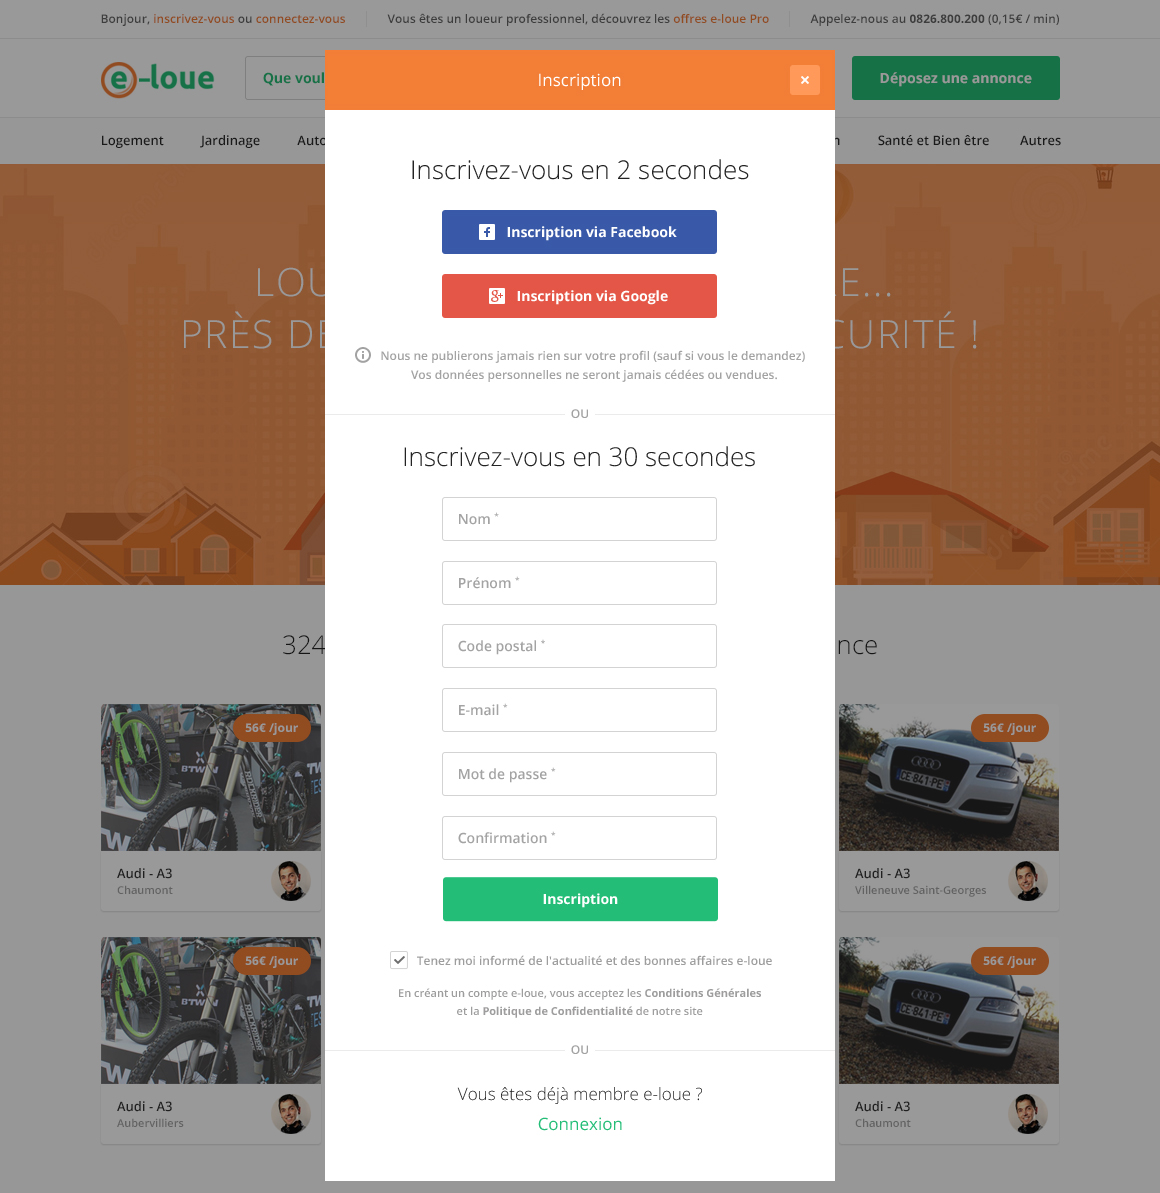
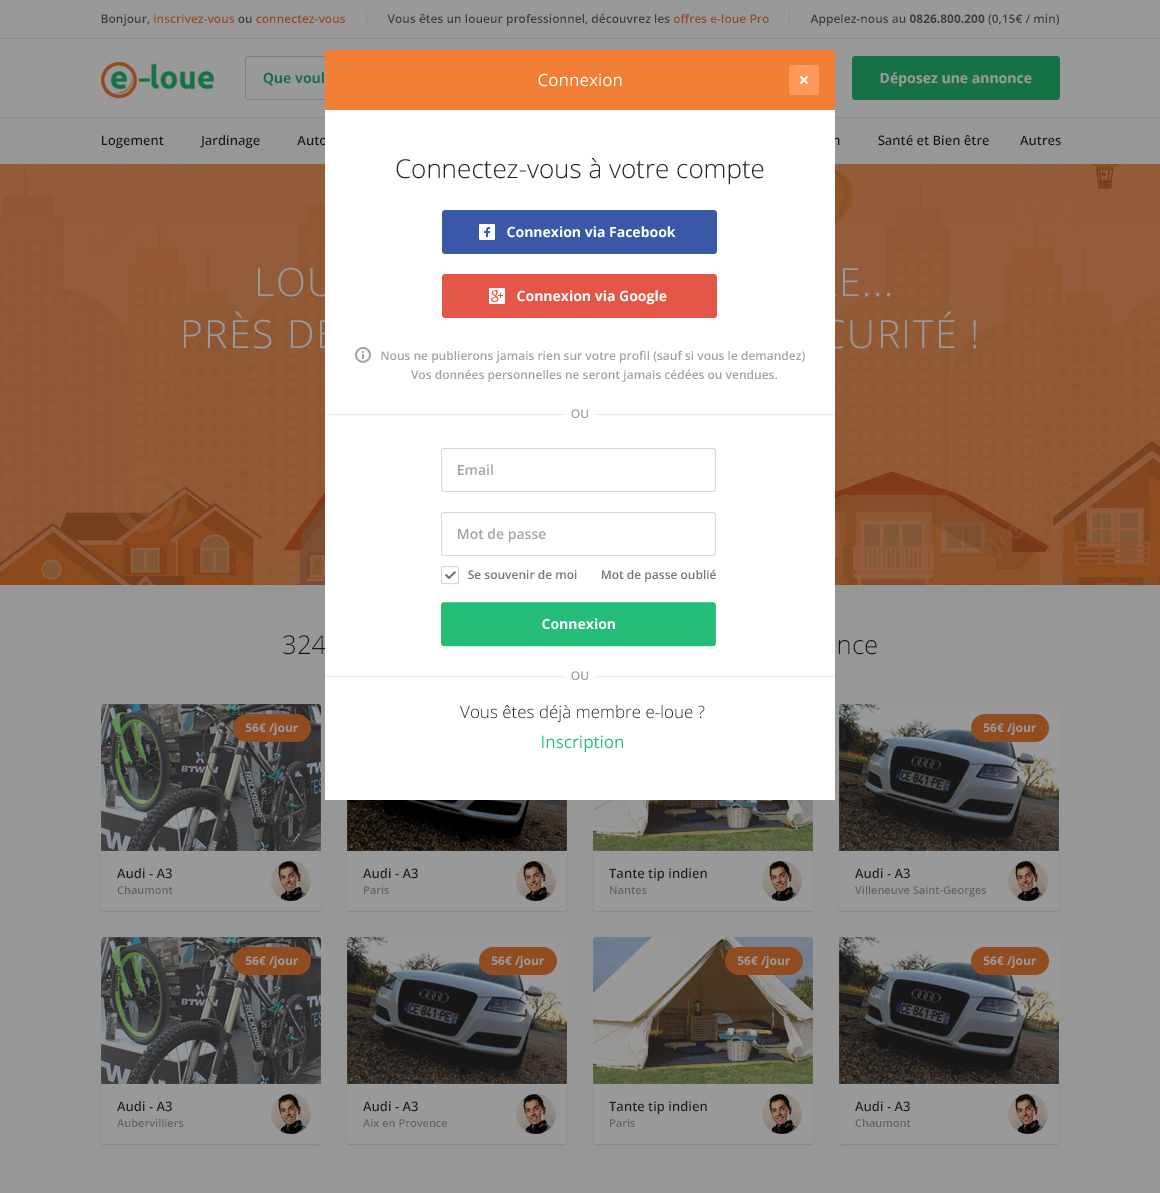
log-in

diff --git a/index.html b/index.html
@@ -17,7 +17,7 @@
           <div class="container registration pad-v-2">
             <ul role="tablist" class="nav without-spaces">
               <li class="divide"></li>
-              <li><span>Bonjour, <a href="#inscrivez-vous" data-toggle="modal" data-target="#sign-in">inscrivez-vous </a>ou <a href="#">connectez-vous</a></span></li>
+              <li><span>Bonjour, <a href="#inscrivez-vous" data-toggle="modal" data-target="#sign-in">inscrivez-vous </a>ou <a href="#connectez-vous" data-toggle="modal" data-target="#log-in">connectez-vous</a></span></li>
               <li class="divide"></li>
               <li><span>Vous êtes un loueur professionnel, découvrez les <a href="#">offers e-loue Pro</a></span></li>
               <li class="divide"></li>
@@ -431,58 +431,94 @@
           </div>
         </div>
       </footer>
-      <section class="sign-in">
-        <div id="sign-in" tabindex="-1" role="dialog" aria-labelledby="myModalLabel" aria-hidden="true" class="modal fade">
-          <div class="modal-dialog">
-            <div class="modal-content text-center">
-              <div class="modal-header">
-                <button type="button" data-dismiss="modal" class="close"><span aria-hidden="true">&times;</span><span class="sr-only">Close</span></button>
-                <h4 id="myModalLabel" class="modal-title">Inscription</h4>
-              </div>
-              <div class="modal-body">
-                <h3>Inscrivez-vous en 2 secondes</h3>
-                <div class="form-group"><a href="#" class="inscription facebook"><span class="icon-facebook"></span>Inscription via Facebook</a></div>
-                <div class="form-group"><a href="#" class="inscription google"><span class="icon-google-plus"></span>Inscription via Google</a></div>
-                <p class="info">Nous ne publierons jamais rien sur votre profil (sauf si vous le demandez) <br>Vos données personnelles ne seront jamais cédées ou vendues.</p><span class="or"></span>
-                <h3>Inscrivez-vous en 30 secondes</h3>
-                <form class="classic-form">
+      <div id="sign-in" tabindex="-1" role="dialog" aria-hidden="true" class="modal fade">
+        <div class="modal-dialog">
+          <div class="modal-content text-center">
+            <div class="modal-header">
+              <button type="button" data-dismiss="modal" class="close"><span aria-hidden="true">&times;</span><span class="sr-only">Close</span></button>
+              <h4 class="modal-title">Inscription</h4>
+            </div>
+            <div class="modal-body">
+              <h3>Inscrivez-vous en 2 secondes</h3>
+              <div class="form-group"><a href="#" class="btn facebook"><span class="icon-facebook"></span>Inscription via Facebook</a></div>
+              <div class="form-group"><a href="#" class="btn google"><span class="icon-google-plus"></span>Inscription via Google</a></div>
+              <p class="info">Nous ne publierons jamais rien sur votre profil (sauf si vous le demandez) <br>Vos données personnelles ne seront jamais cédées ou vendues.</p><span class="or"></span>
+              <h3>Inscrivez-vous en 30 secondes</h3>
+              <form>
+                <div class="classic-form">
                   <div class="form-group">
-                    <input type="text" placeholder="Nom *" class="form-control">
+                    <input type="text" placeholder="Nom *" required class="form-control">
                   </div>
                   <div class="form-group">
-                    <input type="text" placeholder="Prénom *" class="form-control">
+                    <input type="text" placeholder="Prénom *" required class="form-control">
                   </div>
                   <div class="form-group">
-                    <input type="text" placeholder="Code postal *" class="form-control">
+                    <input type="text" placeholder="Code postal *" required class="form-control">
                   </div>
                   <div class="form-group">
-                    <input type="email" placeholder="E-mail *" class="form-control">
+                    <input type="email" placeholder="E-mail *" required class="form-control">
                   </div>
                   <div class="form-group">
-                    <input type="password" placeholder="Mot de passe *" class="form-control">
+                    <input type="password" placeholder="Mot de passe *" required class="form-control">
                   </div>
                   <div class="form-group">
-                    <input type="password" placeholder="Confirmation *" class="form-control">
+                    <input type="password" placeholder="Confirmation *" required class="form-control">
                   </div>
-                  <div class="form-group"><a href="#" class="inscription">Inscription via Email</a></div>
-                </form>
-                <div class="form-group">
-                  <button class="btn inscription email">Inscription via Email</button>
+                  <div class="form-group">
+                    <button type="submit" class="btn">Inscription</button>
+                  </div>
                 </div>
-                <form>
-                  <div class="checkbox">
-                    <label for="inform">
-                      <input type="checkbox" checked id="inform"><span class="icon-ok"></span>
-                    </label>Tenez moi informé de l'actualité et des bonnes affaires e-loue
-                  </div>
-                </form>
-                <p>En créant un compte e-loue, vous acceptez les Conditions Générales<br>et la Politique de Confidentialité de notre site</p><span class="or"></span>
-                <h4>Vous êtes déjà membre e-loue ?</h4><a href="#" class="last-link connexion">Connexion</a>
-              </div>
+                <div class="form-group">
+                  <button class="btn email registration">Inscription via Email</button>
+                </div>
+                <div class="checkbox">
+                  <label for="inform">
+                    <input type="checkbox" checked id="inform"><span class="icon-ok"></span>
+                  </label>Tenez moi informé de l'actualité et des bonnes affaires e-loue
+                </div>
+              </form>
+              <p>En créant un compte e-loue, vous acceptez les Conditions Générales<br>et la Politique de Confidentialité de notre site</p><span class="or"></span>
+              <h4>Vous êtes déjà membre e-loue ?</h4><a href="#connectez-vous" data-toggle="modal" data-target="#log-in" data-dismiss="modal" class="modal-fotter-link connexion">Connexion</a>
             </div>
           </div>
         </div>
-      </section>
+      </div>
+      <div id="log-in" tabindex="-1" role="dialog" aria-hidden="true" class="modal fade">
+        <div class="modal-dialog">
+          <div class="modal-content text-center">
+            <div class="modal-header">
+              <button type="button" data-dismiss="modal" class="close"><span aria-hidden="true">&times;</span><span class="sr-only">Close</span></button>
+              <h4 class="modal-title">Connexion</h4>
+            </div>
+            <div class="modal-body">
+              <h3>Connectez-vous à votre compte</h3>
+              <div class="form-group"><a href="#" class="btn facebook"><span class="icon-facebook"></span>Connexion via Facebook</a></div>
+              <div class="form-group"><a href="#" class="btn google"><span class="icon-google-plus"></span>Connexion via Google</a></div>
+              <p class="info">Nous ne publierons jamais rien sur votre profil (sauf si vous le demandez) <br>Vos données personnelles ne seront jamais cédées ou vendues.</p><span class="or"></span>
+              <form>
+                <div class="form-group">
+                  <input type="email" placeholder="E-mail" required class="form-control">
+                </div>
+                <div class="form-group mrg-v-0">
+                  <input type="password" placeholder="Mot de passe" required class="form-control">
+                </div>
+                <div class="form-group mrg-v-0 clearfix mrg-v-2">
+                  <div class="checkbox pull-left">
+                    <label for="remember-me">
+                      <input type="checkbox" checked id="remember-me"><span class="icon-ok"></span>
+                    </label>Se souvenir de moi
+                  </div>
+                  <div class="forgot-password pull-right"><a href="#">Mot de passe oublié</a></div>
+                </div>
+                <div class="form-group mrg-v-2">
+                  <button type="submit" class="btn">Connexion</button>
+                </div>
+              </form><span class="or"></span>
+              <h4>Vous êtes déjà membre e-loue ?</h4><a href="#" data-toggle="modal" data-target="#sign-in" data-dismiss="modal" class="modal-fotter-link connexion">Inscription</a>
+            </div>
+          </div>
+        </div>
+      </div>
     </div>
     <script src="https://oss.maxcdn.com/libs/html5shiv/3.7.0/html5shiv.js"></script>
     <script src="https://oss.maxcdn.com/libs/respond.js/1.3.0/respond.min.js"></script>
@@ -498,7 +534,7 @@
        $('#geolocate').formmapper({
         details: "form",
        });
-       $('.inscription.email').on('click', function(){
+       $('.registration.email').on('click', function(){
         classic_form.slideDown();
         $(this).slideUp();
         });

diff --git a/css/styles.css b/css/styles.css
@@ -8766,11 +8766,7 @@ main p {
   padding-right: 0;
   font-weight: 600;
 }
-.modal .form-group {
-  margin-top: 1.5em !important;
-  margin-bottom: 1.5em !important;
-}
-.modal .inscription {
+.modal .btn {
   font-size: 1em;
   display: block;
   width: 100%;
@@ -8784,13 +8780,13 @@ main p {
   border-bottom-right-radius: 0.21429em;
   border-top-right-radius: 0.21429em;
 }
-.modal .inscription span {
+.modal .btn span {
   display: inline-block;
   width: 1.2em;
   height: 1.2em;
   line-height: 1.2em;
 }
-.modal .inscription span {
+.modal .btn span {
   border-bottom-left-radius: 0.10714em;
   border-top-left-radius: 0.10714em;
   border-bottom-right-radius: 0.10714em;
@@ -8798,28 +8794,28 @@ main p {
   background-color: white;
   margin-right: 1em !important;
 }
-.modal .inscription.facebook {
+.modal .btn.facebook {
   background-color: #3959a8;
 }
-.modal .inscription.facebook:hover {
+.modal .btn.facebook:hover {
   background-color: #2c4582;
 }
-.modal .inscription.facebook span {
+.modal .btn.facebook span {
   color: #3959a8;
 }
-.modal .inscription.google {
+.modal .btn.google {
   background-color: #e45647;
 }
-.modal .inscription.google:hover {
+.modal .btn.google:hover {
   background-color: #d83120;
 }
-.modal .inscription.google span {
+.modal .btn.google span {
   color: #e45647;
 }
-.modal .inscription, .modal .inscription.email {
+.modal .btn[type="submit"], .modal .btn.email {
   background-color: #24bd77;
 }
-.modal .inscription:hover, .modal .inscription.email:hover {
+.modal .btn[type="submit"]:hover, .modal .btn.email:hover {
   background-color: #1c925c;
 }
 .modal p {
@@ -8845,8 +8841,9 @@ main p {
 }
 .modal .checkbox {
   font-size: 0.85714em;
+  margin: 0;
 }
-.modal .last-link {
+.modal .modal-fotter-link {
   color: #24bd77;
   font-size: 1.21429em;
   font-weight: 400;
@@ -8872,7 +8869,9 @@ main p {
   margin-left: -1.25em;
 }
 .modal .form-group {
-  width: 50%;
+  margin: 1.5em auto;
+  clear: both;
+  width: 52%;
   display: block;
   margin-left: auto;
   margin-right: auto;
@@ -8891,4 +8890,23 @@ main p {
 }
 .modal .form-group input::-webkit-input-placeholder {
   color: inherit;
+}
+.modal .forgot-password {
+  font-size: 0.85714em;
+  min-height: 20px;
+}
+.modal .forgot-password a {
+  color: inherit;
+}
+.modal input[type="text"]:invalid, .modal input[type="text"]:empty,
+.modal input[type="email"]:invalid,
+.modal input[type="email"]:empty,
+.modal input[type="password"]:invalid,
+.modal input[type="password"]:empty {
+  border-color: #f27e36;
+}
+.modal input[type="text"]:valid,
+.modal input[type="email"]:valid,
+.modal input[type="password"]:valid {
+  border-color: #24bd77;
 }

diff --git a/sass/_modal.sass b/sass/_modal.sass
@@ -1,11 +1,11 @@
 .modal
 	$bor-rad: px(3)
-	$item-width: 50%
+	$item-width: 52%
 	.modal-dialog
 		+mrg-t(8)
 		width: $modal-width
 	.modal-content
-		box-shadow: none
+		+box-shadow(none)
 		border-color: transparent
 		border: none
 		+border-left-radius(0)
@@ -35,10 +35,7 @@
 		color: $gray-strong
 		padding-right: 0
 		font-weight: $fw-semibold
-	.form-group
-		+mrg-t(3)
-		+mrg-b(3)
-	.inscription
+	.btn
 		font-size: px(14)
 		display: block
 		width: 100%
@@ -67,7 +64,7 @@
 				background-color: darken($brand-danger, 10%)
 			span
 				color: $brand-danger
-		&,
+		&[type="submit"],
 		&.email
 			background-color: $brand-success
 			&:hover
@@ -92,7 +89,8 @@
 		font-size: px(17)
 	.checkbox
 		font-size: px(12)
-	.last-link
+		margin: 0
+	.modal-fotter-link
 		color: $brand-success
 		font-size: px(17)
 		font-weight: $fw-regular
@@ -117,6 +115,8 @@
 			top: -($height / 2)
 			margin-left: -($width / 2)
 	.form-group
+		margin: 1.5em auto
+		clear: both
 		width: $item-width
 		+center-block()
 		input
@@ -124,4 +124,18 @@
 			height: 3em
 			padding-top: .6em
 			+placeholder(inherit)
+	.forgot-password
+		font-size: px(12)
+		min-height: 20px
+		a
+			color: inherit
+
+	input[type="text"],
+	input[type="email"],
+	input[type="password"]
+		&:invalid,
+		&:empty
+			border-color: $brand-primary
+		&:valid
+			border-color: $brand-success
 

diff --git a/sass/_helped-classes.sass b/sass/_helped-classes.sass
@@ -133,3 +133,4 @@
 	left: 0
 	background-color: black
 	+opacity(.5)
+
